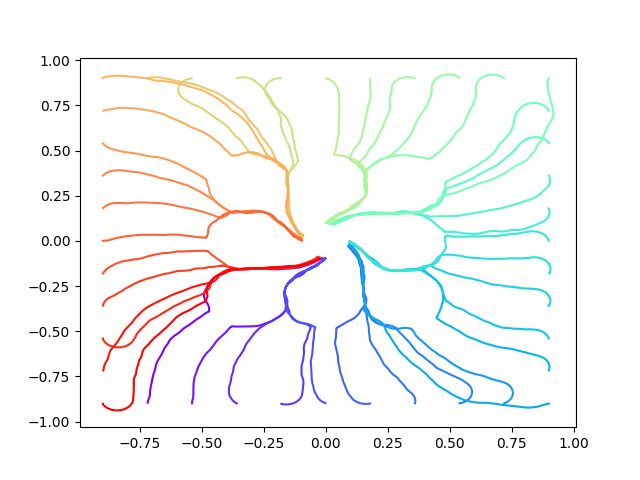
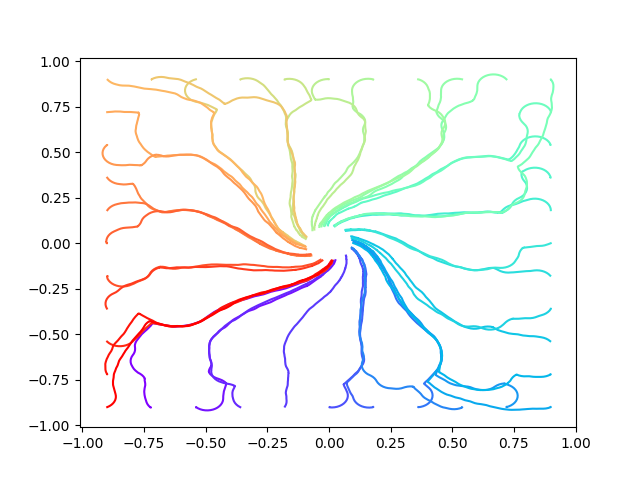
this model test_gap 100%....very best..

diff --git a/controllers/CL_TEST_8_action 5/CL_TEST_8_action 5.py b/controllers/CL_TEST_8_action 5/CL_TEST_8_action 5.py
@@ -1,5 +1,5 @@
 CL_MODEL = "Curriculum No ob train 5000_1"
-CL_KIND = f"{CL_MODEL}_Test_gap11"
+CL_KIND = f"{CL_MODEL}_Test_gap"
 TEST_COUNT = 10
 INPUT_SENSOR = 8
 INPUT_SIZE = 10
@@ -196,8 +196,8 @@ def collision_check():
     global trajectory
     for j in range(3):
         for i in range(2,INPUT_SENSOR + 2):
-            if (action == 1
-            or action == 2
+            if (action == 4
+            or action == 5
             or i == 5
             or i == 6):
                 continue
